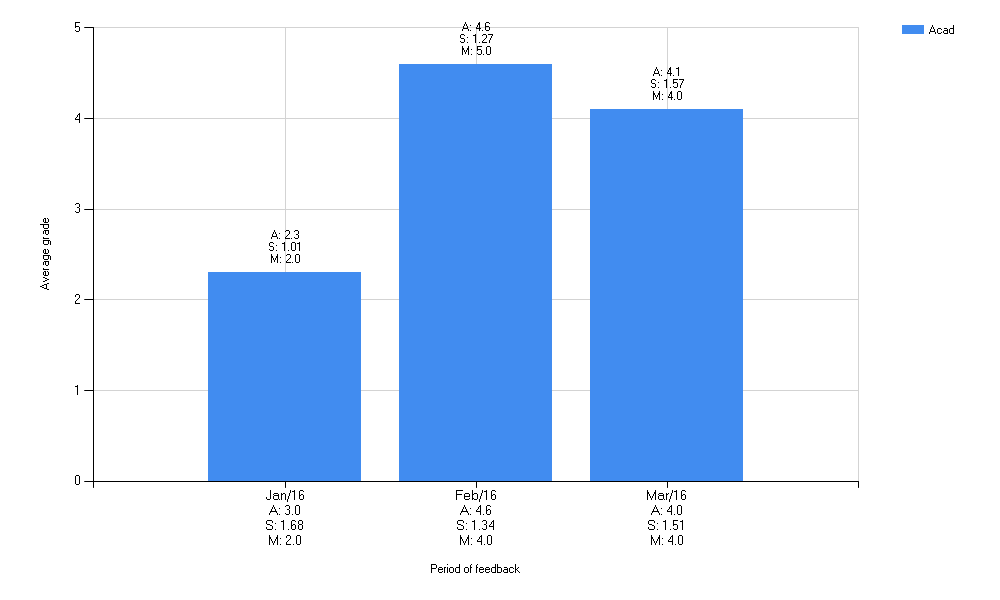
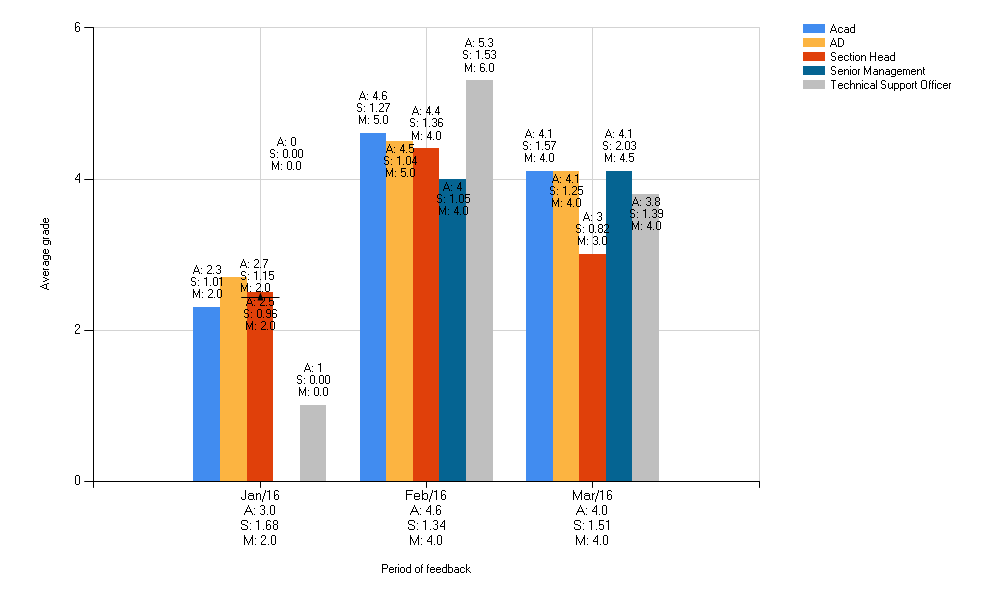
Changed chart control codes

diff --git a/360 Staff Survey Web/GraphReports.aspx.cs b/360 Staff Survey Web/GraphReports.aspx.cs
@@ -173,9 +173,13 @@ namespace _360_Staff_Survey_Web
                                 graphwidth.Add(staffname);
 
                                 Chart1.Series[0].Points.AddXY(staffname, avgresult);
+                                Chart1.ChartAreas[0].AxisX.MajorGrid.LineColor = System.Drawing.Color.LightGray;
+                                Chart1.ChartAreas[0].AxisY.MajorGrid.LineColor = System.Drawing.Color.LightGray;
                                 Chart1.Visible = true;
 
                                 Chart2.Series[0].Points.AddXY(staffname, avgresult);
+                                Chart2.ChartAreas[0].AxisX.MajorGrid.LineColor = System.Drawing.Color.LightGray;
+                                Chart2.ChartAreas[0].AxisY.MajorGrid.LineColor = System.Drawing.Color.LightGray;
                                 Chart2.Visible = true;
                             }
                             dr2.Close();
@@ -254,9 +258,13 @@ namespace _360_Staff_Survey_Web
                                     graphwidth.Add(staffname);
 
                                     Chart1.Series[0].Points.AddXY(staffname, avgresult);
+                                    Chart1.ChartAreas[0].AxisX.MajorGrid.LineColor = System.Drawing.Color.LightGray;
+                                    Chart1.ChartAreas[0].AxisY.MajorGrid.LineColor = System.Drawing.Color.LightGray;
                                     Chart1.Visible = true;
 
                                     Chart2.Series[0].Points.AddXY(staffname, avgresult);
+                                    Chart2.ChartAreas[0].AxisX.MajorGrid.LineColor = System.Drawing.Color.LightGray;
+                                    Chart2.ChartAreas[0].AxisY.MajorGrid.LineColor = System.Drawing.Color.LightGray;
                                     Chart2.Visible = true;
                                 }
                                 dr2.Close();
@@ -332,7 +340,7 @@ namespace _360_Staff_Survey_Web
                                 myconn2.ConnectionString = connectionString;
                                 myconn2.Open();
                                 comm2.Connection = myconn2;
-                                comm2.CommandText = "SELECT AVG(StaffAppraisal.AppraisalResult) AS AvgResult FROM StaffAppraisal INNER JOIN StaffInfo ON StaffAppraisal.AppraisalStaffUserID = StaffInfo.UserID WHERE StaffInfo.Name = @name";
+                                comm2.CommandText = "SELECT FORMAT(AVG(StaffAppraisal.AppraisalResult), 'N1') AS AvgResult FROM StaffAppraisal INNER JOIN StaffInfo ON StaffAppraisal.AppraisalStaffUserID = StaffInfo.UserID WHERE StaffInfo.Name = @name";
                                 comm2.Parameters.AddWithValue("@name", staffname);
 
                                 SqlDataReader dr2 = comm2.ExecuteReader();
@@ -342,9 +350,13 @@ namespace _360_Staff_Survey_Web
 
                                     graphwidth.Add(staffname);
                                     Chart1.Series[0].Points.AddXY(staffname, avgresult);
+                                    Chart1.ChartAreas[0].AxisX.MajorGrid.LineColor = System.Drawing.Color.LightGray;
+                                    Chart1.ChartAreas[0].AxisY.MajorGrid.LineColor = System.Drawing.Color.LightGray;
                                     Chart1.Visible = true;
 
                                     Chart2.Series[0].Points.AddXY(staffname, avgresult);
+                                    Chart2.ChartAreas[0].AxisX.MajorGrid.LineColor = System.Drawing.Color.LightGray;
+                                    Chart2.ChartAreas[0].AxisY.MajorGrid.LineColor = System.Drawing.Color.LightGray;
                                     Chart2.Visible = true;
                                 }
                                 dr2.Close();
@@ -421,7 +433,7 @@ namespace _360_Staff_Survey_Web
                                 myconn2.ConnectionString = connectionString;
                                 myconn2.Open();
                                 comm2.Connection = myconn2;
-                                comm2.CommandText = "SELECT AVG(StaffAppraisal.AppraisalResult) AS AvgResult FROM StaffAppraisal INNER JOIN StaffInfo ON StaffAppraisal.AppraisalStaffUserID = StaffInfo.UserID WHERE StaffAppraisal.AppraisalQuestionID = @qid AND StaffInfo.Name = @name";
+                                comm2.CommandText = "SELECT FORMAT(AVG(StaffAppraisal.AppraisalResult), 'N1') AS AvgResult FROM StaffAppraisal INNER JOIN StaffInfo ON StaffAppraisal.AppraisalStaffUserID = StaffInfo.UserID WHERE StaffAppraisal.AppraisalQuestionID = @qid AND StaffInfo.Name = @name";
 
                                 comm2.Parameters.AddWithValue("@qid", qid);
                                 comm2.Parameters.AddWithValue("@name", staffname);
@@ -434,9 +446,13 @@ namespace _360_Staff_Survey_Web
                                     graphwidth.Add(staffname);
 
                                     Chart1.Series[0].Points.AddXY(staffname, avgresult);
+                                    Chart1.ChartAreas[0].AxisX.MajorGrid.LineColor = System.Drawing.Color.LightGray;
+                                    Chart1.ChartAreas[0].AxisY.MajorGrid.LineColor = System.Drawing.Color.LightGray;
                                     Chart1.Visible = true;
 
                                     Chart2.Series[0].Points.AddXY(staffname, avgresult);
+                                    Chart2.ChartAreas[0].AxisX.MajorGrid.LineColor = System.Drawing.Color.LightGray;
+                                    Chart2.ChartAreas[0].AxisY.MajorGrid.LineColor = System.Drawing.Color.LightGray;
                                     Chart2.Visible = true;
                                 }
                                 dr2.Close();
@@ -488,7 +504,7 @@ namespace _360_Staff_Survey_Web
                 for (int k = 0; k < Chart1.Series[i].Points.Count; k++)
                 {
                     // Chart1.Series[i].Points[k].Label = "A: " + "#VALY\n" + " S: " + Convert.ToDouble(listofSD[k]).ToString("F") + "\n";
-                    Chart1.Series[i].Points[k].Label = "A: " + "#VALY" + "\nS: " + "\nM: ";
+                    Chart1.Series[i].Points[k].Label = "A: #VALY";
                 }
             }
             //Label3.Visible = true;

diff --git a/360 Staff Survey Web/ViewHistoryChart.aspx.cs b/360 Staff Survey Web/ViewHistoryChart.aspx.cs
@@ -17,7 +17,7 @@ namespace _360_Staff_Survey_Web
 {
     public partial class ViewHistoryChart : System.Web.UI.Page
     {
-        string tmpChartName = "test2.jpg";
+        
         public static string lbl;
         protected void Page_Load(object sender, EventArgs e)
         {
@@ -813,7 +813,7 @@ namespace _360_Staff_Survey_Web
                     Chart1.ChartAreas[0].AxisY.Title = "Average grade";
                     Chart1.Legends[0].Enabled = true;
                     Chart1.Legends[0].BackColor = System.Drawing.Color.Transparent;
-                    Chart1.Width = 1000;
+                    Chart1.Width = 1300;
                     Chart1.Height = 600;
 
                     ArrayList listOfStDev = new ArrayList();
@@ -845,8 +845,7 @@ namespace _360_Staff_Survey_Web
                             Chart1.Series[i].Points[k].Label = "A: " + "#VALY\n" + "S: " + Convert.ToDouble(listOfSDPerSeries[i]).ToString("F") + "\nM: " + Convert.ToDouble(listOfMedPerSeries[i]).ToString("0.0");
                         }
                     }
-                    string imgPath = HttpContext.Current.Request.PhysicalApplicationPath + tmpChartName;
-                    Chart1.SaveImage(imgPath);
+                    
 
                     MultiView1.ActiveViewIndex = 0;
                 }
@@ -954,7 +953,7 @@ namespace _360_Staff_Survey_Web
                     Chart1.Legends.Add("Legend");
                     Chart1.Legends[0].Enabled = true;
                     Chart1.Legends[0].BackColor = System.Drawing.Color.Transparent;
-                    Chart1.Width = 1000;
+                    Chart1.Width = 1300;
                     Chart1.Height = 600;
                     Chart1.Series[0].ToolTip = "populateChartSectionViaFunction";
 
@@ -1246,12 +1245,17 @@ namespace _360_Staff_Survey_Web
         {
             Response.Clear();
             Response.Buffer = true;
-            Response.AddHeader("content-disposition", "attachment;filename=ChartExport.xls");
+            Response.AddHeader("content-disposition", "attachment;filename=ViewHistoryChart.xls");
             Response.ContentType = "application/vnd.ms-excel";
             Response.Charset = "";
             StringWriter sw = new StringWriter();
             HtmlTextWriter hw = new HtmlTextWriter(sw);
             Chart1.RenderControl(hw);
+
+            string tmpChartName = "ChartImage.jpg";
+            string imgPath = HttpContext.Current.Request.PhysicalApplicationPath + tmpChartName;
+            Chart1.SaveImage(imgPath);
+
             string src = tmpChartName;
             string img = string.Format("<img src = '{0}{1}' />", HttpContext.Current.Request.PhysicalApplicationPath, src);
 
